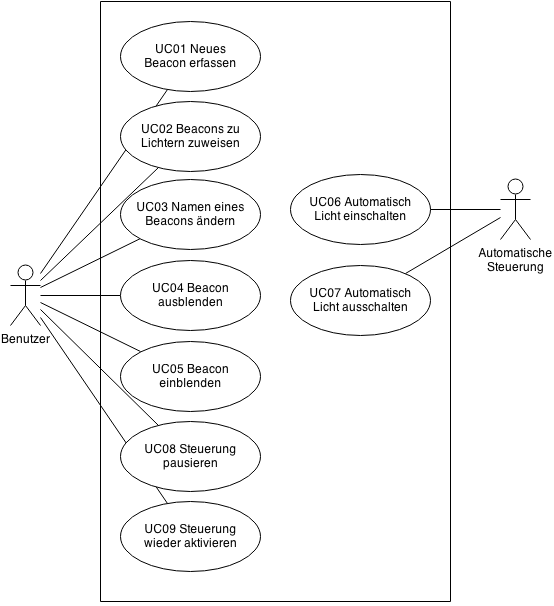
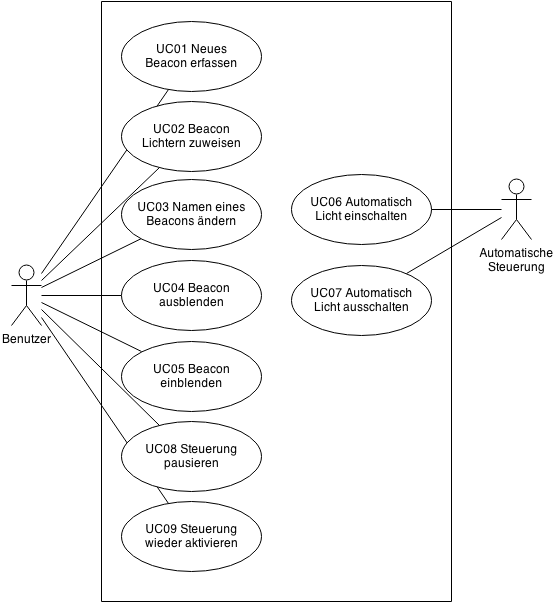
Renamed UC02

diff --git a/index.html b/index.html
@@ -1387,7 +1387,7 @@ erfasst.
 </tr>
 <tr>
     <th>Name</th>
-    <td>Beacon zu Lichtern zuweisen</td>
+    <td>Beacon Lichtern zuweisen</td>
 </tr>
 <tr>
     <th>Priorität</th>
@@ -1428,7 +1428,7 @@ erfasst.
 </tr>
 </tbody>
 </table>
-<figcaption>UC02 Beacons zu Lichtern zuweisen</figcaption>
+<figcaption>UC02 Beacon Lichtern zuweisen</figcaption>
 </figure>
 
 <p>
